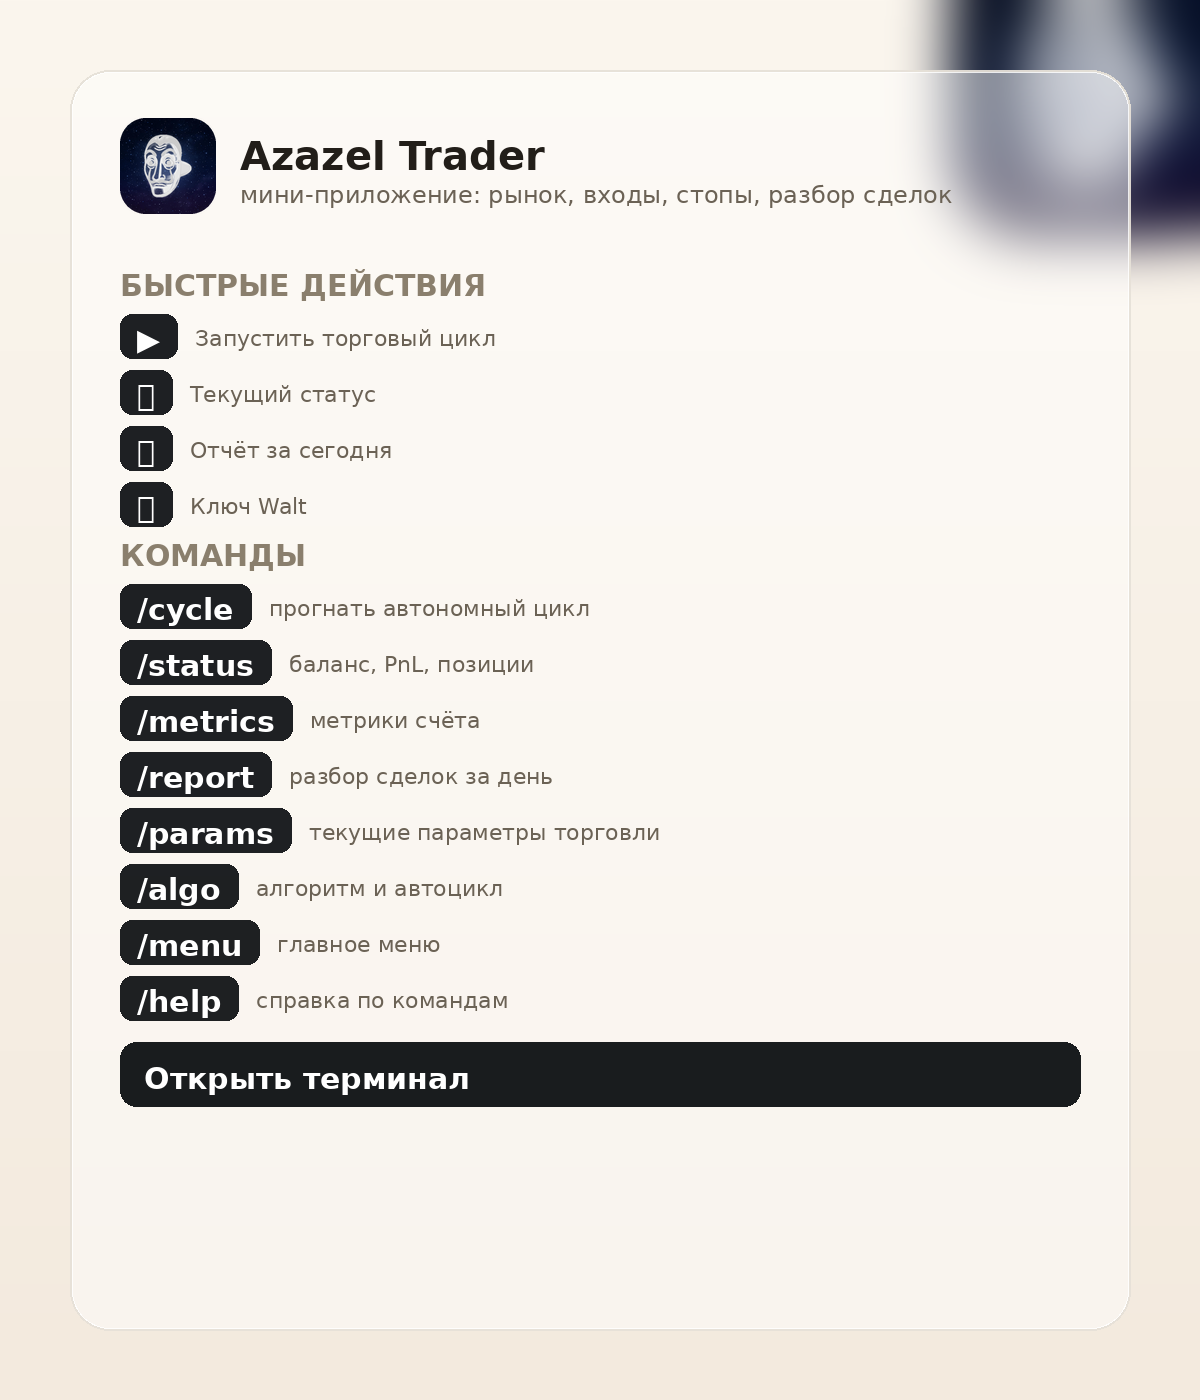
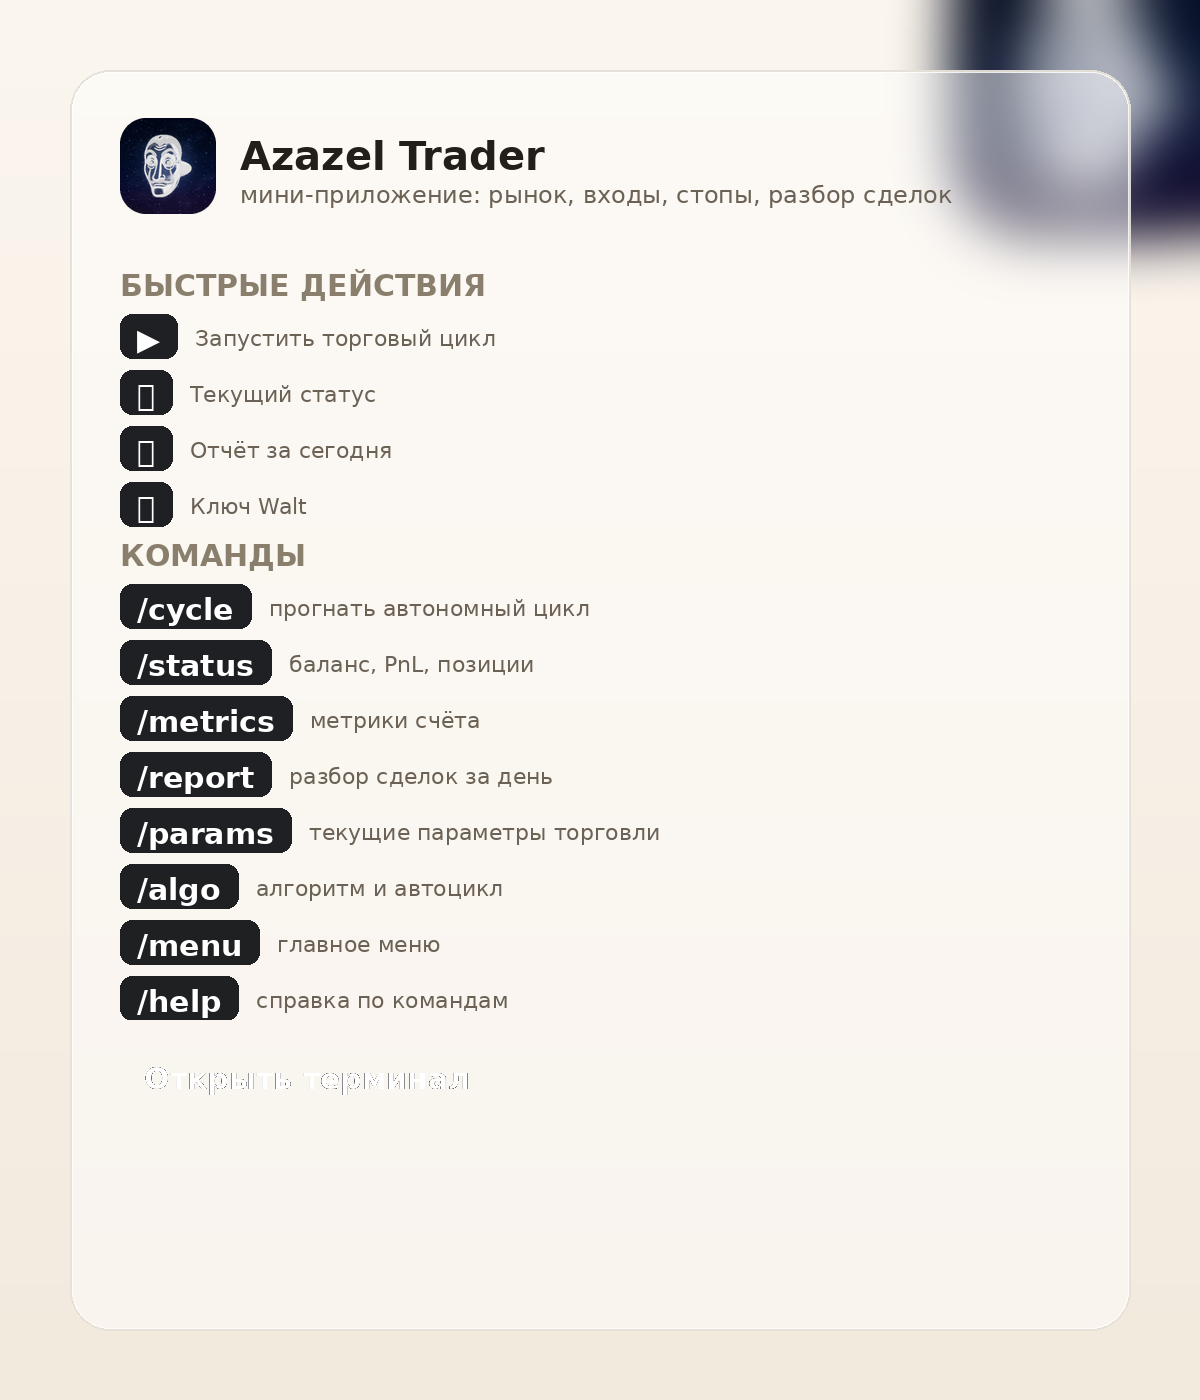
UX: убрать «Открыть терминал» из списка команд (миниатюра + HELP)

Changed region(s): [[0.0925, 0.7371, 0.925, 0.7986]]

diff --git a/bot.py b/bot.py
@@ -525,7 +525,7 @@ def finish(chat_id, uid):
 HELP = ("<b>Azazel Trader</b> — автономный торговый терминал.\n\n"
     "Я соберу твои параметры, объясню каждый и сохраню. Дальше использую их в каждом цикле.\n\n"
     "<b>Команды</b>\n/start — начать настройку\n/params — твои параметры\n/status — подписка и цикл\n/ключ — подключить ключ Walt API\n/cycle — прогнать торговый цикл\n/metrics — метрики счёта\n"
-    "/app — открыть терминал\n/skills — доступные скилы\n/menu — профиль и быстрые ссылки\n/help — справка\n\n"
+    "/skills — доступные скилы\n/menu — профиль и быстрые ссылки\n/help — справка\n\n"
     "Вопросы — просто пиши текстом, я пойму.")
 
 SKILLS_TXT = ("<b>Доступные скилы</b>\n\n"
